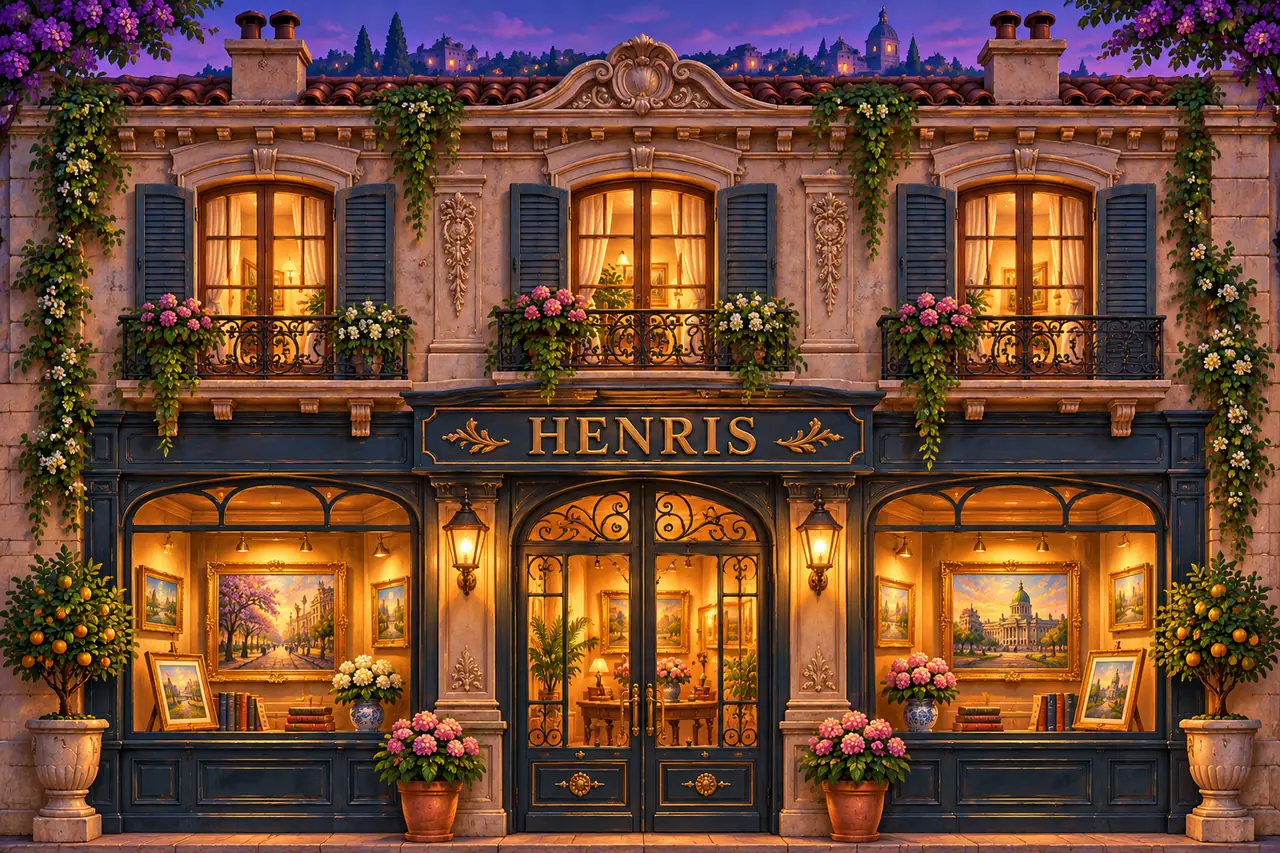
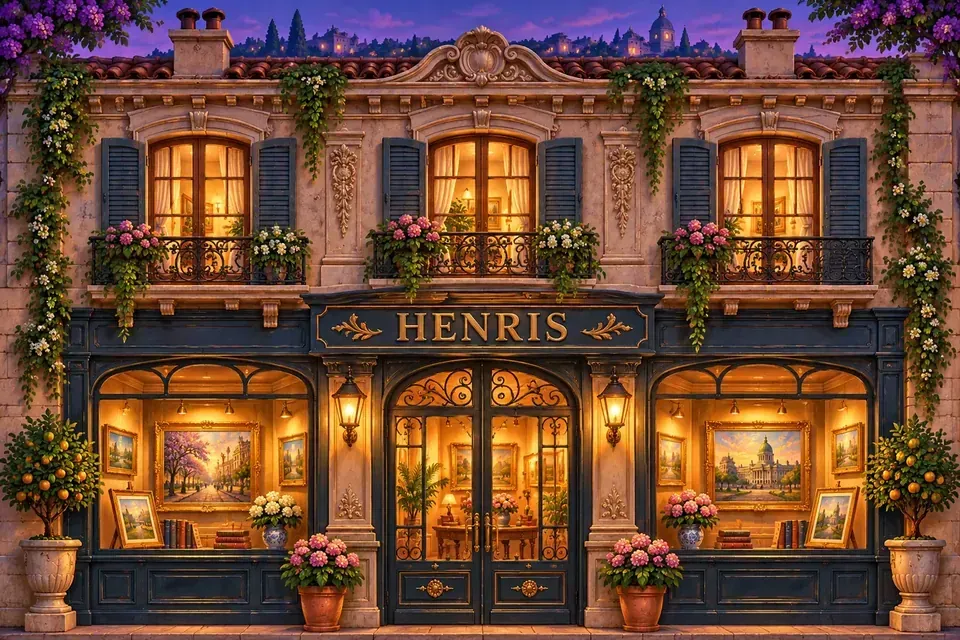
Plan Maestro: continuidad 4 actos, NPCs separados por país, hojas 4 poses y Ferme LaPadite Pixar

diff --git a/3d/js/main.js b/3d/js/main.js
@@ -255,12 +255,12 @@ const CHECKPOINTS = {
   acto2:   { label: 'ACTO 2 · ¡SEGUÍ AL BYD!', short: 'Acto 2 · Persecución BYD' },
   byd:     { label: 'ACTO 2 · ¡ROMPÉ EL BYD!', short: 'el BYD de Cepi' },
   cepi:    { label: 'JEFE 2 · CEPI «EL NIÑO»', short: 'Cepi (Pádel)' },
-  acto3:   { label: 'ACTO 3 · FRANCIA (LE BLÉ)', short: 'Acto 3 · Francia' },
-  lale:    { label: 'JEFE 3 · LALE «MANTECOSO»', short: 'Lale (Le Blé)' },
-  acto4:   { label: 'ACTO 4 · CAMINO AL GALPÓN', short: 'Acto 4 · Galpón' },
+  acto3:   { label: 'ACTO 3 · PARÍS (BOULANGERIE)', short: 'Acto 3 · París' },
+  lale:    { label: 'JEFE 3 · LALE «MANTECOSO»', short: 'Lale (Obrador)' },
+  acto4:   { label: 'ACTO 4 · FERME LAPADITE → GALPÓN', short: 'Acto 4 · Galpón' },
   pinky:   { label: 'JEFE FINAL · PINKY', short: 'Pinky (Final)' },
   // compatibilidad con checkpoints previos guardados en localStorage
-  francia: { label: 'ACTO 3 · FRANCIA (LE BLÉ)', short: 'Francia' },
+  francia: { label: 'ACTO 3 · PARÍS (BOULANGERIE)', short: 'París' },
   boss:    { label: 'JEFE 1 · BIG CHAKY', short: 'BIG CHAKY' }
 };
 function saveCheckpoint(id) {
@@ -380,7 +380,7 @@ function resumeAt(cp) {
     return;
   }
   if (id === 'lale') {
-    clearWavesBefore(WAVES.findIndex(w => w.id === 'boulevard'));
+    clearWavesBefore(WAVES.findIndex(w => w.id === 'boulevard-2'));
     p.set(206, 0, 0);
     updateCamera(0, true);
     spawnLale();
@@ -613,7 +613,7 @@ function updateZones() {
   }
 }
 
-// ---------- cambio de nivel (Acto 1 → Acto 2: cruce a Francia) ----------
+// ---------- cambio de nivel (Acto 2 → Acto 3: vuelo de Buenos Aires a París tras vencer a Cepi) ----------
 const TRANSITION_MAX_S = 6;
 const TRANSITION_WAIT_S = 0.45;
 function startTransition() {
@@ -623,11 +623,15 @@ function startTransition() {
   input.reset();
   clearBanners();
   game.combo.reset();
+  setLevel(1);
   world.border?.raise();
-  game.hero.actor.setFacing(1);
-  Object.assign(game.hero, { state: 'free', lift: 0, vy: 0, knock: 0, knockZ: 0 });
+  const h = game.hero;
+  h.actor.position.set(BORDER_X - 6, 0, 0);
+  h.actor.setFacing(1);
+  Object.assign(h, { state: 'free', lift: 0, vy: 0, knock: 0, knockZ: 0 });
+  updateCamera(0, true);
   const done = LEVELS[0], next = LEVELS[1];
-  $('#level-done').textContent = tr('ACTO 1 · BUENOS AIRES');
+  $('#level-done').textContent = tr('¡BUENOS AIRES DESPEJADO!');
   $('#level-name').textContent = tr(done.name);
   $('#level-pts').textContent = tr(game.score.total.toLocaleString('es-AR') + ' puntos');
   $('#level-next').textContent = '✈ ' + tr(`NIVEL ${next.id}: ${next.name}`);
@@ -652,31 +656,18 @@ function updateTransition(dt) {
   if (!game.transCrossed && (p.x >= BORDER_X + 0.5 || game.transT > TRANSITION_MAX_S)) {
     game.transCrossed = true;
     audio.sfx('secret');
-    curtain(() => { if (game.state === 'transition') endTransition(); }, { label: CHECKPOINTS.acto2.label, wait: assets.ensure(['chase_']) });
+    curtain(() => { if (game.state === 'transition') endTransition(); }, { label: CHECKPOINTS.acto3.label });
   }
 }
 
 function endTransition() {
-  setLevel(2);
-  const L = LEVELS[1];
-  const h = game.hero;
+  $('#level-card').classList.add('hidden');
+  $('#level-card').classList.remove('travel');
   game.enemies.clear(); game.butter.clear(); game.psycho.stop(); game.powers.clear();
   game.cameos.onLevelStart();
   game.margot.clear();
   game.traps.reset();
-  h.actor.position.set(L.start, 0, 0);
-  h.actor.setFacing(1);
-  h.actor.setPose('idle');
-  h.hp = Math.min(h.hpMax, Math.max(3, h.hp + 2));
-  h.inv = 0;
-  $('#level-card').classList.add('hidden');
-  $('#level-card').classList.remove('travel');
-  input.reset();
-  // Acto 2 abre directo con la Persecución del BYD → ¡Rompé el BYD! → Arena de Cepi
-  game.chaseDone = true;
-  saveCheckpoint('acto2');
-  audio.music('chase', { fade: 0.3 });
-  game.chase.start();
+  enterAct3Street();
 }
 game.startTransition = startTransition;
 
@@ -780,7 +771,7 @@ function enterAct4Street() {
   updateCamera(0, true);
   saveCheckpoint('acto4');
   game.state = 'curtain';
-  curtain(() => { game.state = 'playing'; input.reset(); audio.music('francia', { fade: 0.4 }); }, { label: CHECKPOINTS.acto4.label });
+  curtain(() => { game.state = 'playing'; input.reset(); audio.music('francia', { fade: 0.4 }); }, { label: '¡LALE FUERA! MARGOT ESTÁ PASANDO LA FERME LAPADITE' });
 }
 
 game.onBossDown = () => {
@@ -1084,25 +1075,26 @@ async function boot() {
   game.pickups = game.props.pickups;
   game.crates = game.props.crates;
   game.story = createStory(ctx);
-  // Jefe 1 (Acto 1): BIG CHAKY → al ganar cruza a Francia (Acto 2: Persecución BYD)
+  // Jefe 1 (Acto 1): BIG CHAKY → al ganar, Cepi huye en el BYD por la 9 de Julio (Acto 2 en Buenos Aires)
   game.arena = createArena({
     game, input, audio, assets, renderer, banner: game.banner, updateHud, pause, POWER,
     onWin() {
       game.chakyDone = true;
       game.state = 'playing'; last = 0;
       if (PROBAR && PROBAR.startsWith('chaky')) { game.onBossDown(); return; }
-      startTransition();
+      game.state = 'curtain';
+      curtain(() => startChaseRun(), { label: '¡CHAKY CAYÓ! CEPI SE ESCAPA EN EL BYD POR LA 9 DE JULIO', wait: assets.ensure(['chase_']) });
     },
     onDown() { game.state = 'playing'; finish(false); }
   });
-  // Jefe 2 (Acto 2): Cepi «el Niño» → al ganar arranca Acto 3 (calle corta de Francia hasta Le Blé)
+  // Jefe 2 (Acto 2): Cepi «el Niño» → al ganar, vuelo a París (Acto 3)
   game.arenaCepi = createCepiArena({
     game, input, audio, assets, renderer, updateHud, pause, POWER,
     onWin() {
       game.cepiDone = true;
       game.state = 'playing'; last = 0;
       if (PROBAR && PROBAR.startsWith('cepi')) { finish(true); return; }
-      enterAct3Street();
+      startTransition();
     },
     onDown() { game.state = 'playing'; finish(false); }
   });

diff --git a/3d/js/level.js b/3d/js/level.js
@@ -22,22 +22,23 @@ export const GATES = [
 
 // Oleadas en orden. gate = índice del portón que abren al despejarse.
 // Chaky, Cepi, Lale y Pinky son únicamente JEFES de sus arenas; en la calle pelean sus secuaces.
+// Elenco 100 % separado por país: Buenos Aires (King Kong / patovica + bombo) · Francia (Hans Landa / secuaz + mozo + delivery).
 export const WAVES = [
-  { id: 'vereda', level: 1, trigger: 22, gate: null, title: 'LA VEREDA', text: '¡Llegaron los secuaces de BIG CHAKY!',
-    spawns: [{ dx: 9, dz: -0.9, kind: 'secuaz' }, { dx: 11, dz: 1.1, kind: 'secuaz' }] },
-  { id: 'vereda-2', level: 1, trigger: 50, gate: 0, title: 'SEGURIDAD VIP', text: 'Un patovica y su secuaz cortan la vereda.',
-    spawns: [{ dx: 9, dz: 1.1, kind: 'patovica' }, { dx: 8, dz: -1.1, kind: 'secuaz' }] },
+  { id: 'vereda', level: 1, trigger: 22, gate: null, title: 'LA VEREDA PORTEÑA', text: '¡Los bombos de BIG CHAKY copan la cuadra!',
+    spawns: [{ dx: 9, dz: -0.9, kind: 'bombo' }, { dx: 11, dz: 1.1, kind: 'bombo' }] },
+  { id: 'vereda-2', level: 1, trigger: 50, gate: 0, title: 'SEGURIDAD VIP', text: 'King Kong y un bombo cortan la vereda.',
+    spawns: [{ dx: 9, dz: 1.1, kind: 'patovica' }, { dx: 8, dz: -1.1, kind: 'bombo' }] },
   { id: 'avenida', level: 1, trigger: 76, gate: null, title: 'LA AVENIDA', text: 'Cuidado con el colectivo: no frena.',
-    spawns: [{ dx: 9, dz: -1.4, kind: 'bombo' }, { dx: -8, dz: 1.4, kind: 'secuaz' }] },
-  { id: 'le-concept', level: 1, trigger: 122, gate: null, endsLevel: true, title: '¡ÚLTIMA PARADA: EL AEROPUERTO!', text: 'Los secuaces no te dejan subir al avión.',
+    spawns: [{ dx: 9, dz: -1.4, kind: 'bombo' }, { dx: -8, dz: 1.4, kind: 'patovica' }] },
+  { id: 'le-concept', level: 1, trigger: 122, gate: null, endsLevel: true, title: '¡FRENTE A LE CONCEPT!', text: 'La patota de BIG CHAKY corta el camino a Ezeiza.',
     spawns: [{ dx: 8, dz: -0.6, kind: 'patovica' }, { dx: 10, dz: 1.6, kind: 'bombo' }] },
 
-  { id: 'francia', level: 2, trigger: 162, gate: null, title: 'LA RUE', text: '¡Secuaces en las calles de París!',
+  { id: 'francia', level: 2, trigger: 162, gate: null, title: 'LA RUE DE PARIS', text: '¡El inspector Landa y sus mozos vigilan París!',
     spawns: [{ dx: 8, dz: 0.4, kind: 'mozo' }, { dx: 10, dz: -1.3, kind: 'secuaz' }] },
-  { id: 'francia-2', level: 2, trigger: 186, gate: 1, title: 'CAMINO A LE BLÉ', text: 'Mozos y deliverys cuidan la panadería.',
+  { id: 'francia-2', level: 2, trigger: 186, gate: 1, title: 'CAMINO AL OBRADOR', text: 'Mozos y deliverys cuidan la boulangerie de Lale.',
     spawns: [{ dx: 10, dz: 1.4, kind: 'mozo' }, { dx: 9, dz: -1.6, kind: 'delivery' }] },
-  { id: 'boulevard-2', level: 2, trigger: 238, gate: 2, title: 'ÚLTIMO TRAMO', text: 'Atrás de esta barrera está el galpón.',
-    spawns: [{ dx: 8, dz: -1.4, kind: 'patovica' }, { dx: 10, dz: 1.6, kind: 'delivery' }, { dx: 11, dz: 0, kind: 'bombo' }] }
+  { id: 'boulevard-2', level: 2, trigger: 238, gate: 2, title: 'ÚLTIMO TRAMO', text: 'Pasando la Ferme LaPadite está el galpón.',
+    spawns: [{ dx: 8, dz: -1.4, kind: 'secuaz' }, { dx: 10, dz: 1.6, kind: 'delivery' }, { dx: 11, dz: 0, kind: 'mozo' }] }
 ];
 
 // Trampas. zone: tramo donde actúan las que aparecen solas.

diff --git a/3d/js/i18n.js b/3d/js/i18n.js
@@ -249,14 +249,32 @@ export const TEXTOS = {
   'ACTO 2 · ¡ROMPÉ EL BYD!': 'ACTE 2 · CASSE LA BYD !',
   'JEFE 2 · CEPI «EL NIÑO»': 'BOSS 2 · CEPI « LE GAMIN »',
   'Cepi (Pádel)': 'Cepi (Padel)',
-  'ACTO 3 · FRANCIA (LE BLÉ)': 'ACTE 3 · FRANCE (LE BLÉ)',
+  'ACTO 3 · PARÍS (BOULANGERIE)': 'ACTE 3 · PARIS (BOULANGERIE)',
+  'Acto 3 · París': 'Acte 3 · Paris',
+  'París': 'Paris',
+  'ACTO 3 · FRANCIA (LE BLÉ)': 'ACTE 3 · PARIS (BOULANGERIE)',
   'Acto 3 · Francia': 'Acte 3 · France',
   'JEFE 3 · LALE «MANTECOSO»': 'BOSS 3 · LALE « LE BEURRÉ »',
-  'Lale (Le Blé)': 'Lale (Le Blé)',
+  'Lale (Obrador)': 'Lale (Boulangerie)',
+  'Lale (Le Blé)': 'Lale (Boulangerie)',
+  'ACTO 4 · FERME LAPADITE → GALPÓN': "ACTE 4 · FERME LAPADITE → L'ENTREPÔT",
   'ACTO 4 · CAMINO AL GALPÓN': "ACTE 4 · VERS L'ENTREPÔT",
   'Acto 4 · Galpón': 'Acte 4 · Entrepôt',
   'JEFE FINAL · PINKY': 'BOSS FINAL · PINKY',
   'Pinky (Final)': 'Pinky (Final)',
+  '¡BUENOS AIRES DESPEJADO!': 'BUENOS AIRES LIBÉRÉ !',
+  '¡CHAKY CAYÓ! CEPI SE ESCAPA EN EL BYD POR LA 9 DE JULIO': "CHAKY EST KO ! CEPI S'ENFUIT EN BYD SUR LA 9 DE JULIO",
+  '¡LALE FUERA! MARGOT ESTÁ PASANDO LA FERME LAPADITE': 'LALE EST KO ! MARGOT EST APRÈS LA FERME LAPADITE',
+  'LA VEREDA PORTEÑA': 'LE TROTTOIR DE BUENOS AIRES',
+  '¡Los bombos de BIG CHAKY copan la cuadra!': 'Les tambours de BIG CHAKY bloquent la rue !',
+  'King Kong y un bombo cortan la vereda.': 'King Kong et un tambour coupent le trottoir.',
+  '¡FRENTE A LE CONCEPT!': 'DEVANT LE CONCEPT !',
+  'La patota de BIG CHAKY corta el camino a Ezeiza.': "La bande de BIG CHAKY bloque la route d'Ezeiza.",
+  'LA RUE DE PARIS': 'LA RUE DE PARIS',
+  '¡El inspector Landa y sus mozos vigilan París!': "L'inspecteur Landa et ses serveurs surveillent Paris !",
+  'CAMINO AL OBRADOR': 'VERS LA BOULANGERIE',
+  'Mozos y deliverys cuidan la boulangerie de Lale.': 'Serveurs et livreurs gardent la boulangerie de Lale.',
+  'Pasando la Ferme LaPadite está el galpón.': "Juste après la Ferme LaPadite se trouve l'entrepôt.",
   // Arena de Cepi
   'FASE 1 · 🎾': 'PHASE 1 · 🎾',
   '¡SAQUE Y REMATE!': 'SERVICE ET SMASH !',

diff --git a/3d/index.html b/3d/index.html
@@ -156,14 +156,14 @@
     "./js/cine.js": "./js/cine.js?v=b2b270758e",
     "./js/config.js": "./js/config.js?v=bb2b804d27",
     "./js/cover.js": "./js/cover.js?v=4d127fb3de",
-    "./js/enemies.js": "./js/enemies.js?v=361705abcc",
+    "./js/enemies.js": "./js/enemies.js?v=63f9345e66",
     "./js/fx.js": "./js/fx.js?v=a0d302f894",
     "./js/hero.js": "./js/hero.js?v=802a148d80",
-    "./js/i18n.js": "./js/i18n.js?v=7ed4e0900a",
+    "./js/i18n.js": "./js/i18n.js?v=f0f228ea8e",
     "./js/input.js": "./js/input.js?v=c0a7d85f0d",
     "./js/items.js": "./js/items.js?v=744f5cdca9",
-    "./js/level.js": "./js/level.js?v=799b4d10ba",
-    "./js/main.js": "./js/main.js?v=b8d4de45ab",
+    "./js/level.js": "./js/level.js?v=06bbd2245e",
+    "./js/main.js": "./js/main.js?v=75b3ff03de",
     "./js/margot.js": "./js/margot.js?v=a2e597b1e5",
     "./js/music.js": "./js/music.js?v=039559a383",
     "./js/poses.js": "./js/poses.js?v=8d8b21ac9a",
@@ -183,6 +183,6 @@
   }
 }
   </script>
-  <script type="module" src="js/main.js?v=b8d4de45ab"></script>
+  <script type="module" src="js/main.js?v=75b3ff03de"></script>
 </body>
 </html>

diff --git a/3d/js/enemies.js b/3d/js/enemies.js
@@ -164,7 +164,7 @@ export function createEnemies(ctx) {
     else if (st === 'windup' || st === 'ring' || e.stun > 0) pose = 'idle';
     else if (e.k.ai === 'bombo' && a.lift > 0.02) pose = Math.floor(e.beat * 2) % 2 ? 'step' : 'idle';
     else if (e.moving && a.poses.walk) pose = 'walk';
-    else if (e.k.ai !== 'mozo' && e.moving) pose = Math.floor(e.walk * (e.k.gait?.cadence || 2)) % 2 ? 'step' : 'idle';
+    else if (e.moving) pose = Math.floor(e.walk * (e.k.gait?.cadence || 2)) % 2 ? 'step' : 'idle';
     a.setPose(pose);
   }
 

diff --git a/PROJECT_STATUS.md b/PROJECT_STATUS.md
@@ -409,6 +409,23 @@ Base de los cuatro actos en GitHub Pages: `57ae713`. Accesos de prueba: `3d/?pro
 - **Verificación**: `node tools/stamp_versions.mjs`, `npm test` (74/74) + 12/12 pruebas de arenas = **86/86 en verde**; mapas de Buenos Aires y Francia verificados en Chromium headless. Pendiente: prueba en Safari físico de iPhone.
 - **Rollback**: volver `main` al commit `284b2a4`.
 
+## 2026-11-23 (13) · Plan Maestro: continuidad de 4 actos, NPCs 100 % separados por país, hojas animadas de 4 poses y Ferme LaPadite Pixar
+- **Continuidad narrativa y geográfica (`3d/js/main.js`, `3d/js/i18n.js`)**:
+  - Al vencer a **BIG CHAKY (Jefe 1)** en Ezeiza, ahora muestra el puente narrativo *«¡CHAKY CAYÓ! CEPI SE ESCAPA EN EL BYD POR LA 9 DE JULIO»* y lanza el Acto 2 (Persecución BYD → ¡Rompé el BYD! → **Cepi Pádel**) todavía en Buenos Aires.
+  - Al vencer a **Cepi (Jefe 2)**, recién ahí se dispara `startTransition()` (barrera `EMBARQUE ✈` → `BIENVENUE EN FRANCE` → llegada a **Acto 3 · París (Boulangerie)**).
+  - Al vencer a **Lale (Jefe 3)**, muestra el puente *«¡LALE FUERA! MARGOT ESTÁ PASANDO LA FERME LAPADITE»* hacia el Acto 4 y **Pinky**.
+  - Corregido el bug de `resumeAt('lale')` (`'boulevard'` inexistente → `'boulevard-2'`) y actualizadas las traducciones ES/FR (`3d/js/i18n.js`).
+- **Elenco de NPCs 100 % separado por país (`3d/js/level.js`)**:
+  - **Buenos Aires (Acto 1)**: exclusivo **King Kong (`patovica`) + `bombo`**.
+  - **Francia (Actos 3 y 4)**: exclusivo **Hans Landa (`secuaz`) + `mozo` + `delivery`**.
+- **Animaciones completas de 4 poses para los 5 enemigos (`3d/assets/{patovica,secuaz,bombo,mozo,delivery}_sheet.webp`, `3d/js/enemies.js`)**:
+  - Generadas e integradas las 5 hojas animadas de 4 cuadros (`idle`, `step`, `strike`, `hurt`) con recorte croma limpio y sin residuos de bordes; habilitado el paso animado (`step`) para todos los enemigos en movimiento (incluyendo `mozo` y `delivery`).
+- **Ferme LaPadite Pixar (`3d/assets/granja_lapadite.webp`, `3d/assets/manifest.json`)**:
+  - Reemplazada la fachada por código por la pintura estilo Pixar de la granja de Normandía con cartel `FERME LAPADITE`, sábanas al viento, fardos y tarros de leche. Peso total `3d/assets/`: **9,97 MB** (< 10 MB).
+- **Verificación**: `node tools/stamp_versions.mjs`, `npm test` (74/74) + 12/12 pruebas de arenas = **86/86 en verde**; inspección visual de hojas WebP y mapas de recorrido en Chromium headless. Pendiente: validación táctil/audio en Safari físico de iPhone.
+- **Rollback**: volver `main` al commit `70f6ab2`.
+
+
 
 
 
